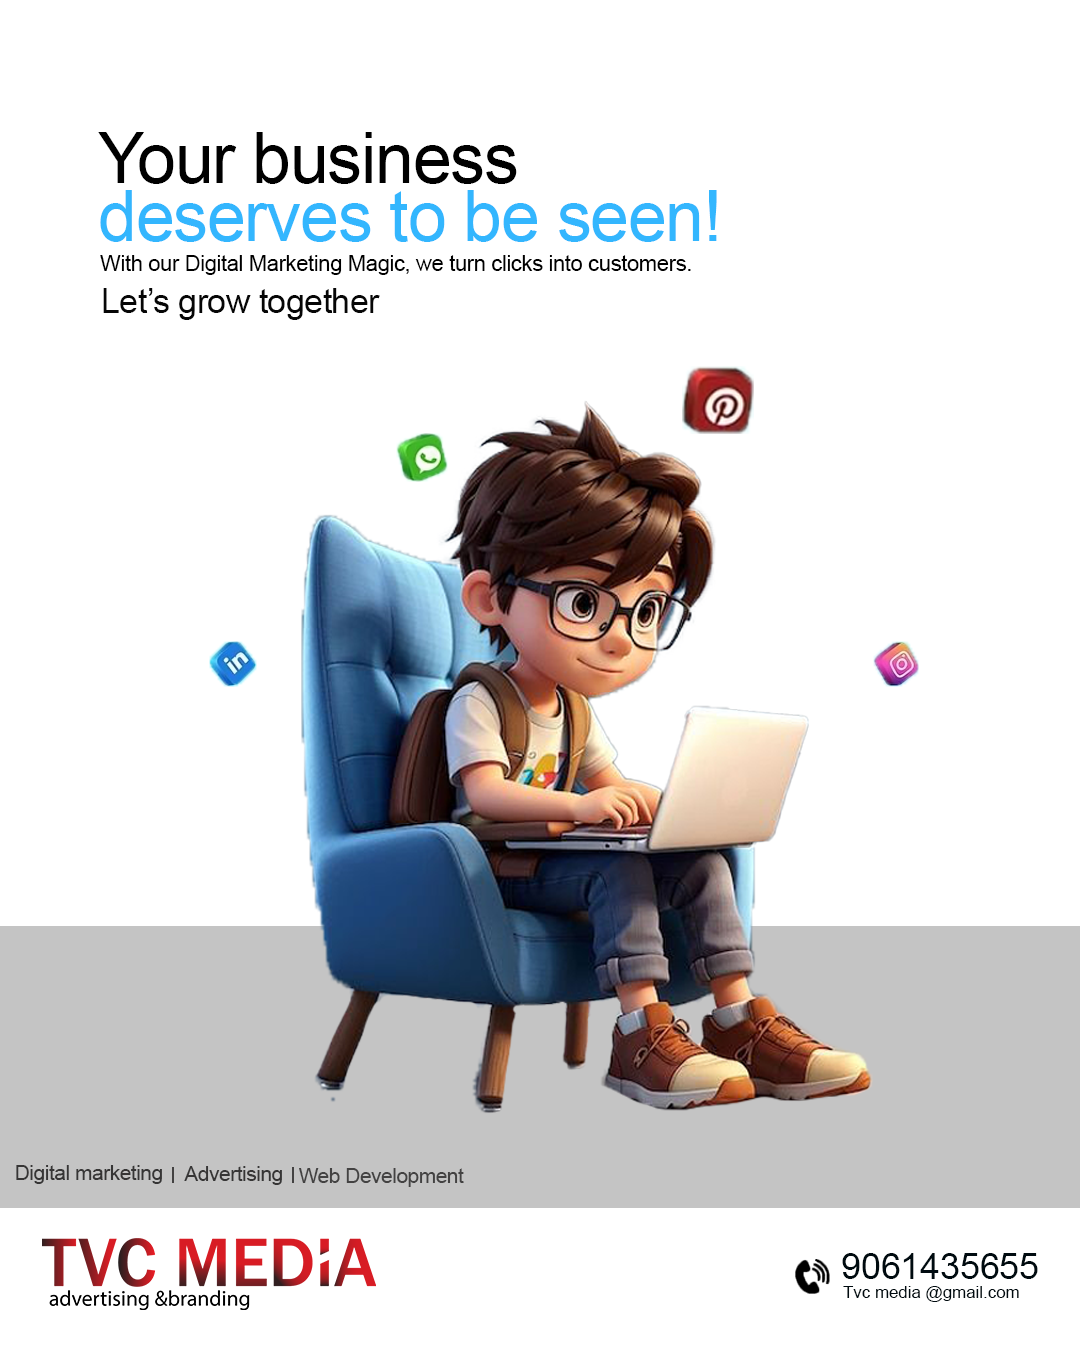
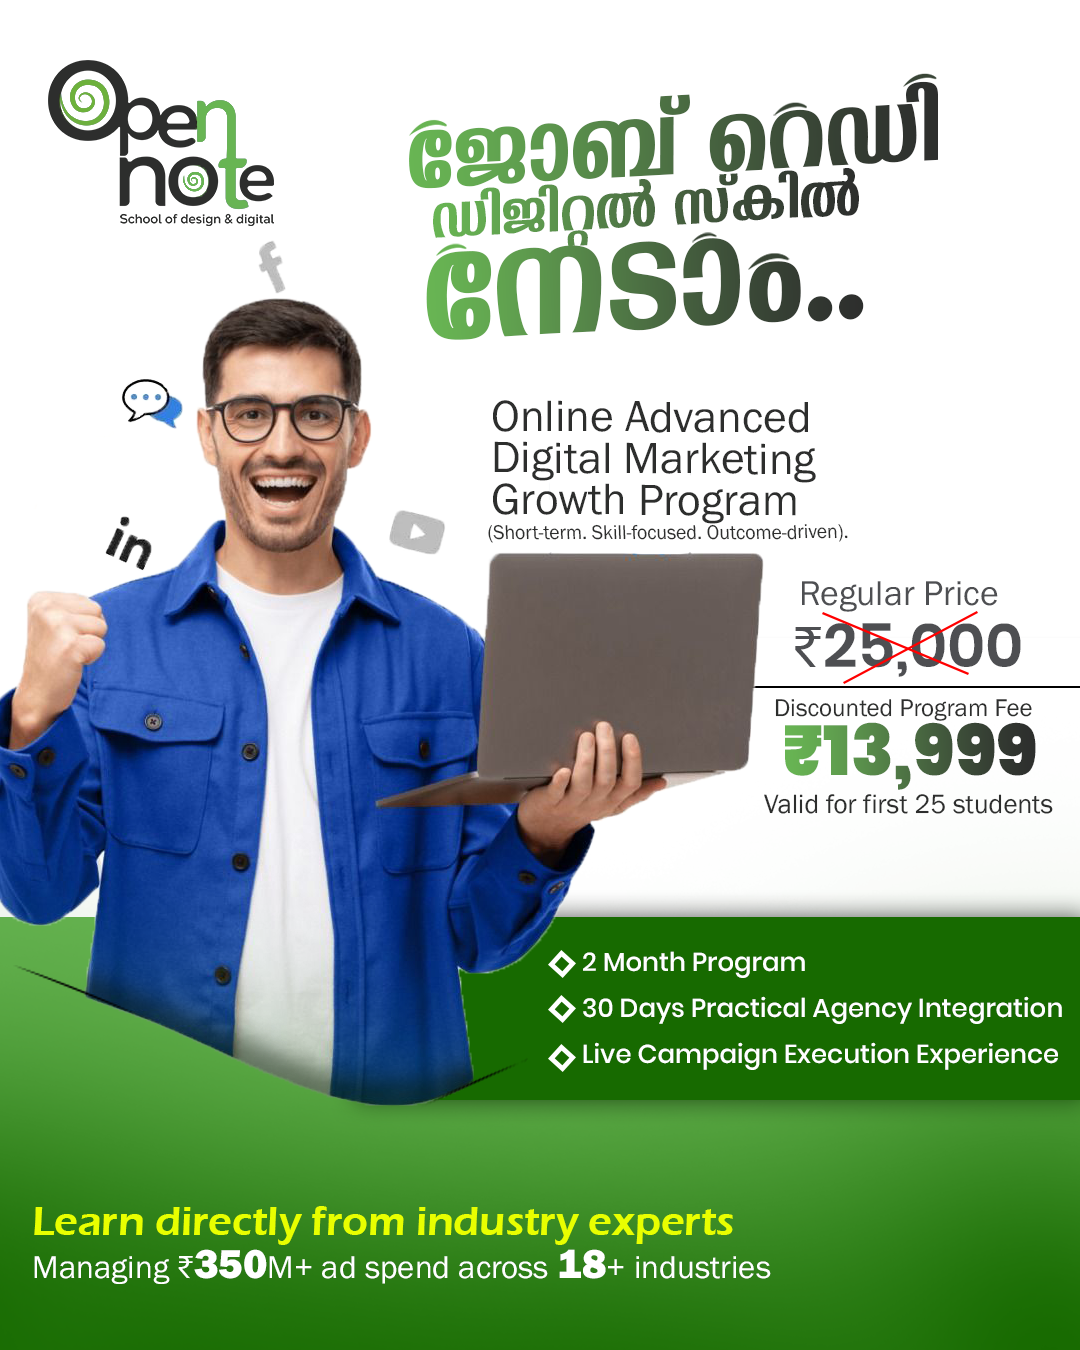
image changes

diff --git a/Click Here.html b/Click Here.html
@@ -17,7 +17,7 @@
       <h2 class="section-title">Social Media Posters</h2>
       <div class="grid social-grid">
         <img src="images/sm_ps/ascent.png" alt="Poster1">
-        <img src="images/sm_ps/poster2.png" alt="Poster2">
+        <img src="images/sm_ps/Slide-4-poster_01.jpg" alt="Poster2">
         <img src="images/sm_ps/zaika.png" alt="Poster3">
         <img src="images/sm_ps/poster4.png" alt="Poster4">
         <img src="images/sm_ps/poster5.png" alt="Poster5">
@@ -32,7 +32,7 @@
         <img src="images/new/Untitled-5-Recovered.pngf (1).png" alt="Poster14">
         <img src="images/sm_ps/poster15.png" alt="Poster15">
       <img src="images/sm_ps/mr speed.png" alt="poster25"> 
-        <img src="images/sm_ps/transline logestics.png" alt="Poster17">
+        <img src="images/sm_ps/POSTER DENTAL  1.png" alt="Poster17">
               <img src="images/sm_ps/Happy easter.png solar panel.png" alt="Poster20">
         <img src="images/new/solar panel.png" alt="Poster19">
               <img src="images/sm_ps/transline logisitcsss.png" alt="Poster18">
